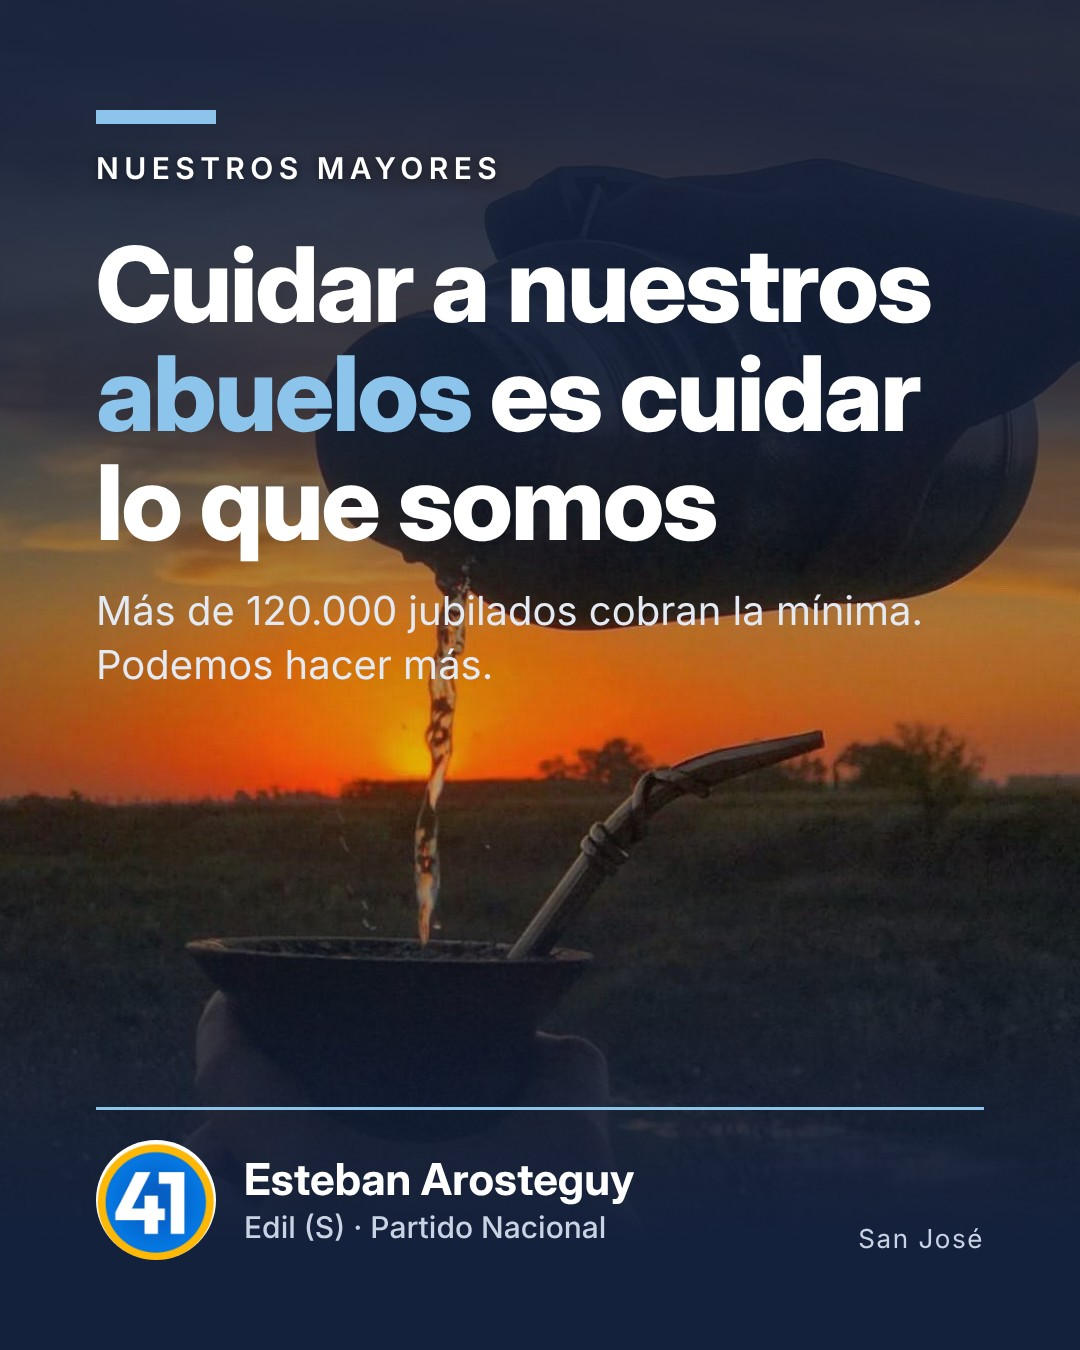
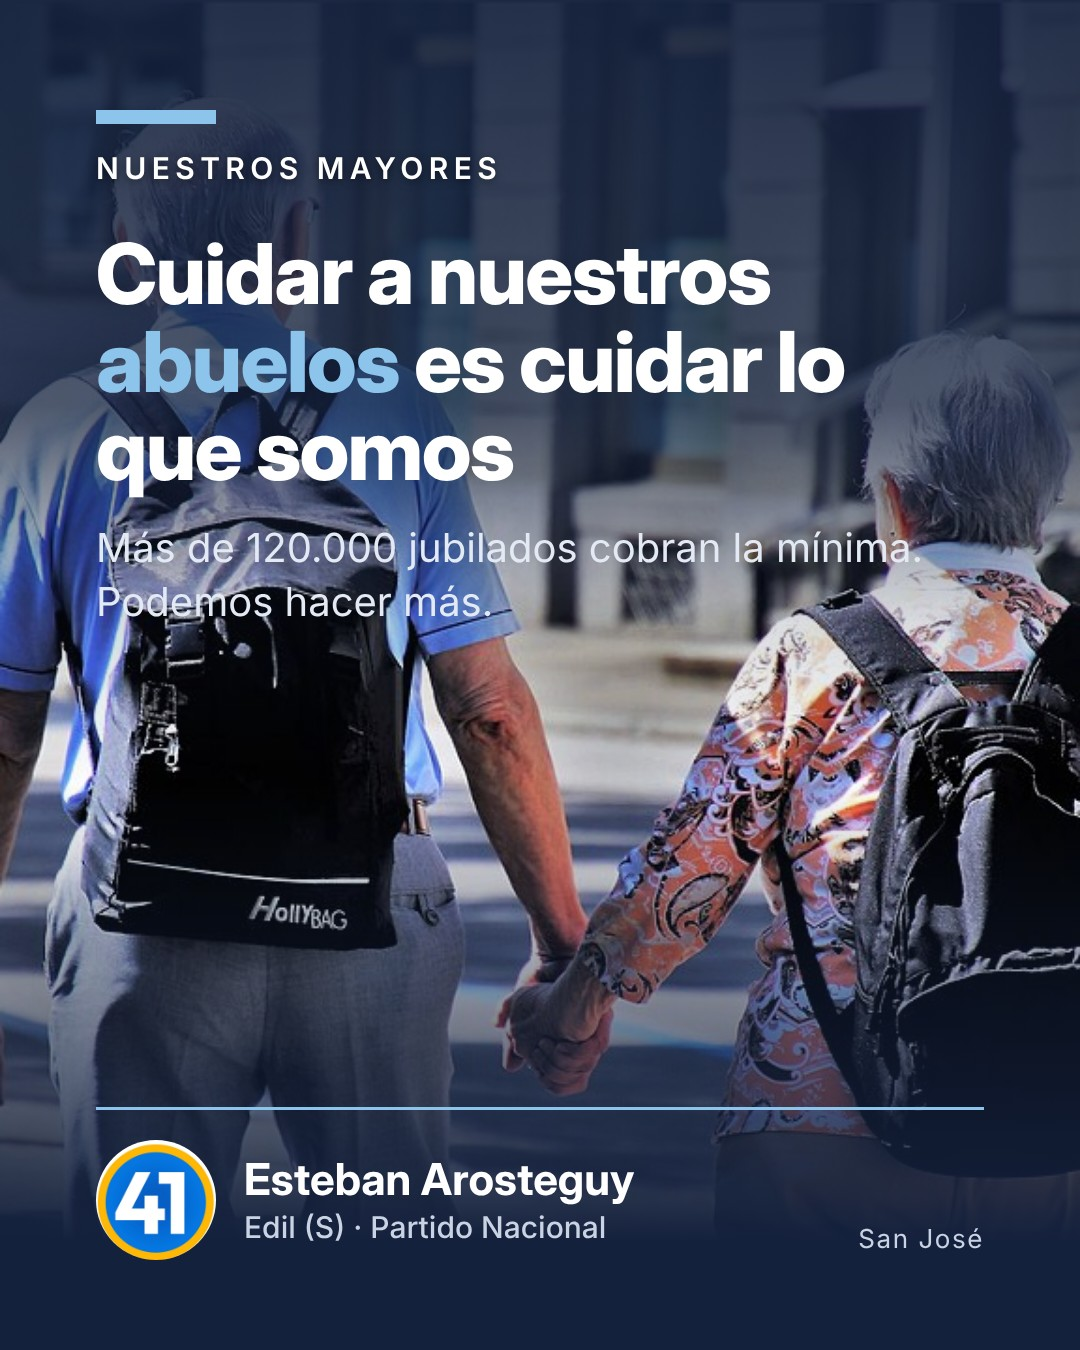
Placa 2026-11-06: foto de jubilados de espalda (CC0) en vez del mate
Claude-Session: https://claude.ai/code/session_01JGYzg87gMPbe3YiAmEnht7

diff --git a/redes/fotos/README.md b/redes/fotos/README.md
@@ -43,3 +43,9 @@ Con foto el tema es siempre azul marino. Verificar siempre con Read que el texto
 | retrato-auto-gorra.jpg | Selfie casual en el auto | cercanía (uso ocasional) | focus top |
 
 Reglas: no repetir la misma foto en menos de 10 días; fotos de familia/hijos solo si Esteban la manda para un post puntual (no se guardan en este repo público); en temas sensibles, preferir foto sin caras o placa sin foto.
+
+## Fotos genéricas libres (redes/fotos/genericas/)
+
+| Archivo | Qué muestra | Temas | Encuadre | Fuente · autor · licencia |
+|---|---|---|---|---|
+| genericas/jubilados-de-espalda.jpg | Pareja de jubilados caminando de espalda, tomados de la mano (sin caras) | jubilados, adultos mayores, seguridad social, cuidados | pos top, focus center (las manos quedan abajo) | Wikimedia Commons "File:Senior-3336451 1920.jpg" · pasja1000 (Pixabay, https://pixabay.com/photos/senior-elderly-people-couple-3336451/) · CC0 1.0 |
